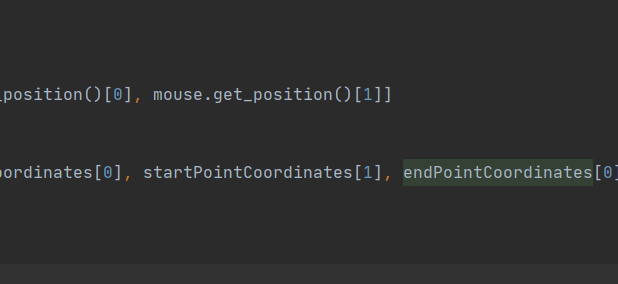
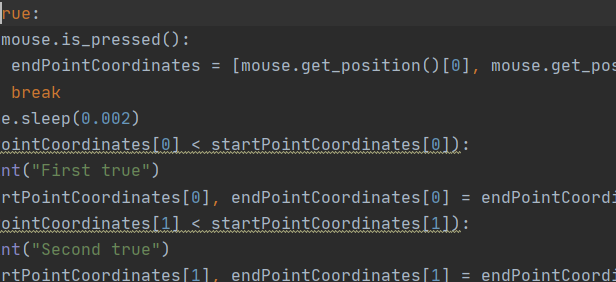
Handling all mouse positions (negative width or height scenario)

diff --git a/ScreenTranslate.py b/ScreenTranslate.py
@@ -18,6 +18,11 @@ while True:
                     break
                 time.sleep(0.002)
 
+            if(endPointCoordinates[0] < startPointCoordinates[0]):
+                startPointCoordinates[0], endPointCoordinates[0] = endPointCoordinates[0], startPointCoordinates[0]
+            if(endPointCoordinates[1] < startPointCoordinates[1]):
+                startPointCoordinates[1], endPointCoordinates[1] = endPointCoordinates[1], startPointCoordinates[1]
+
             image = ImageGrab.grab(bbox=(
                 startPointCoordinates[0], startPointCoordinates[1], endPointCoordinates[0], endPointCoordinates[1]))
             image.save('sc.png')
